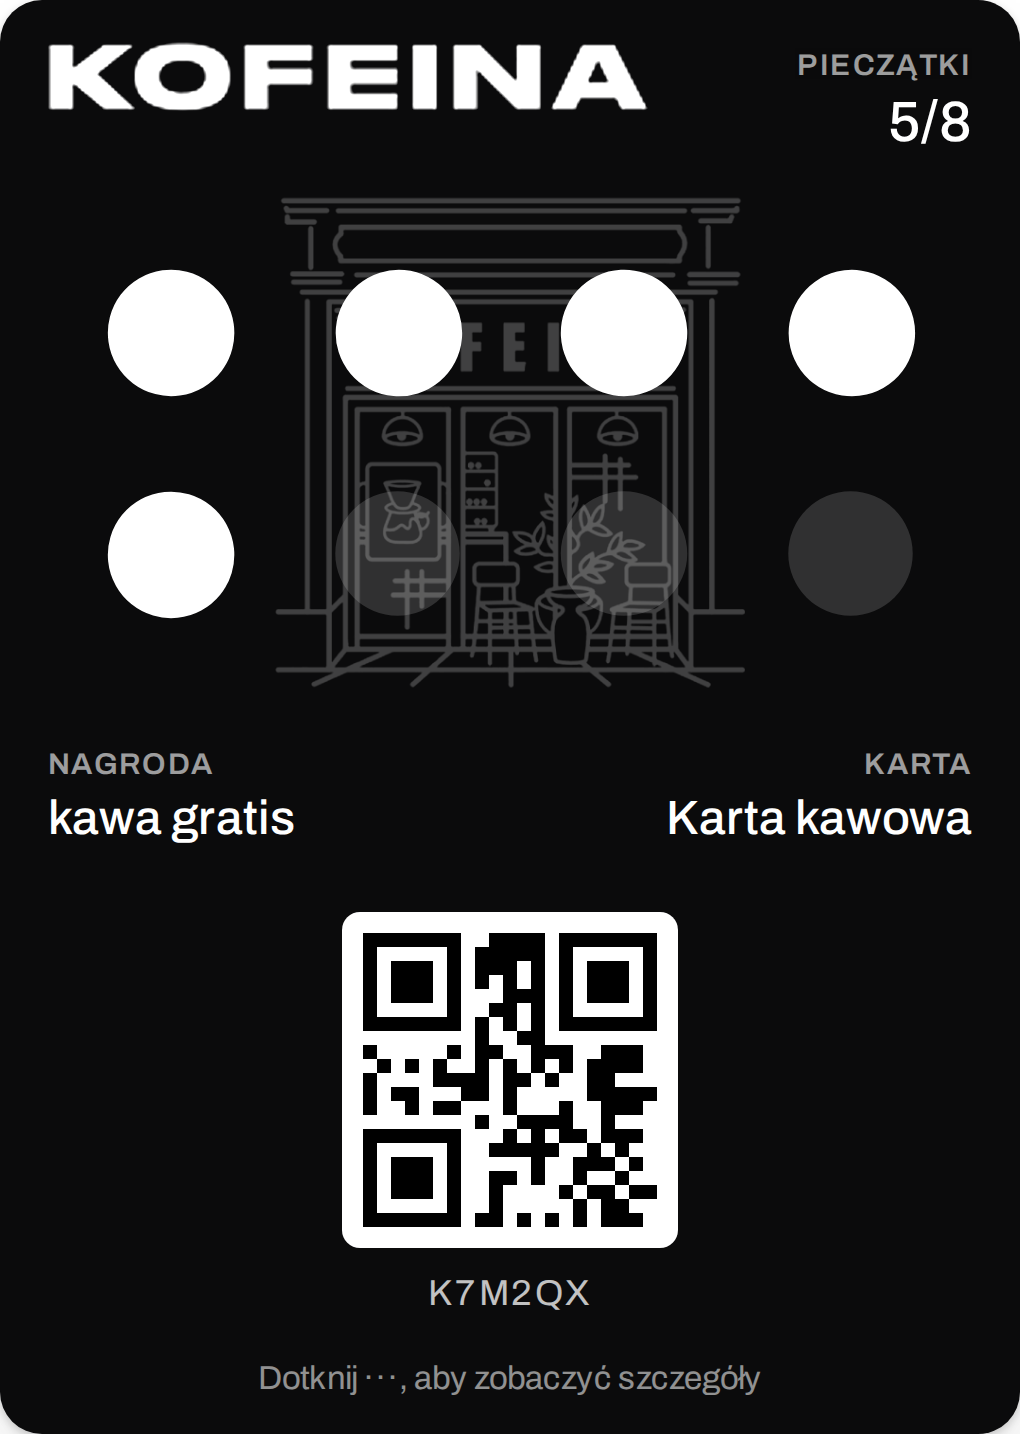
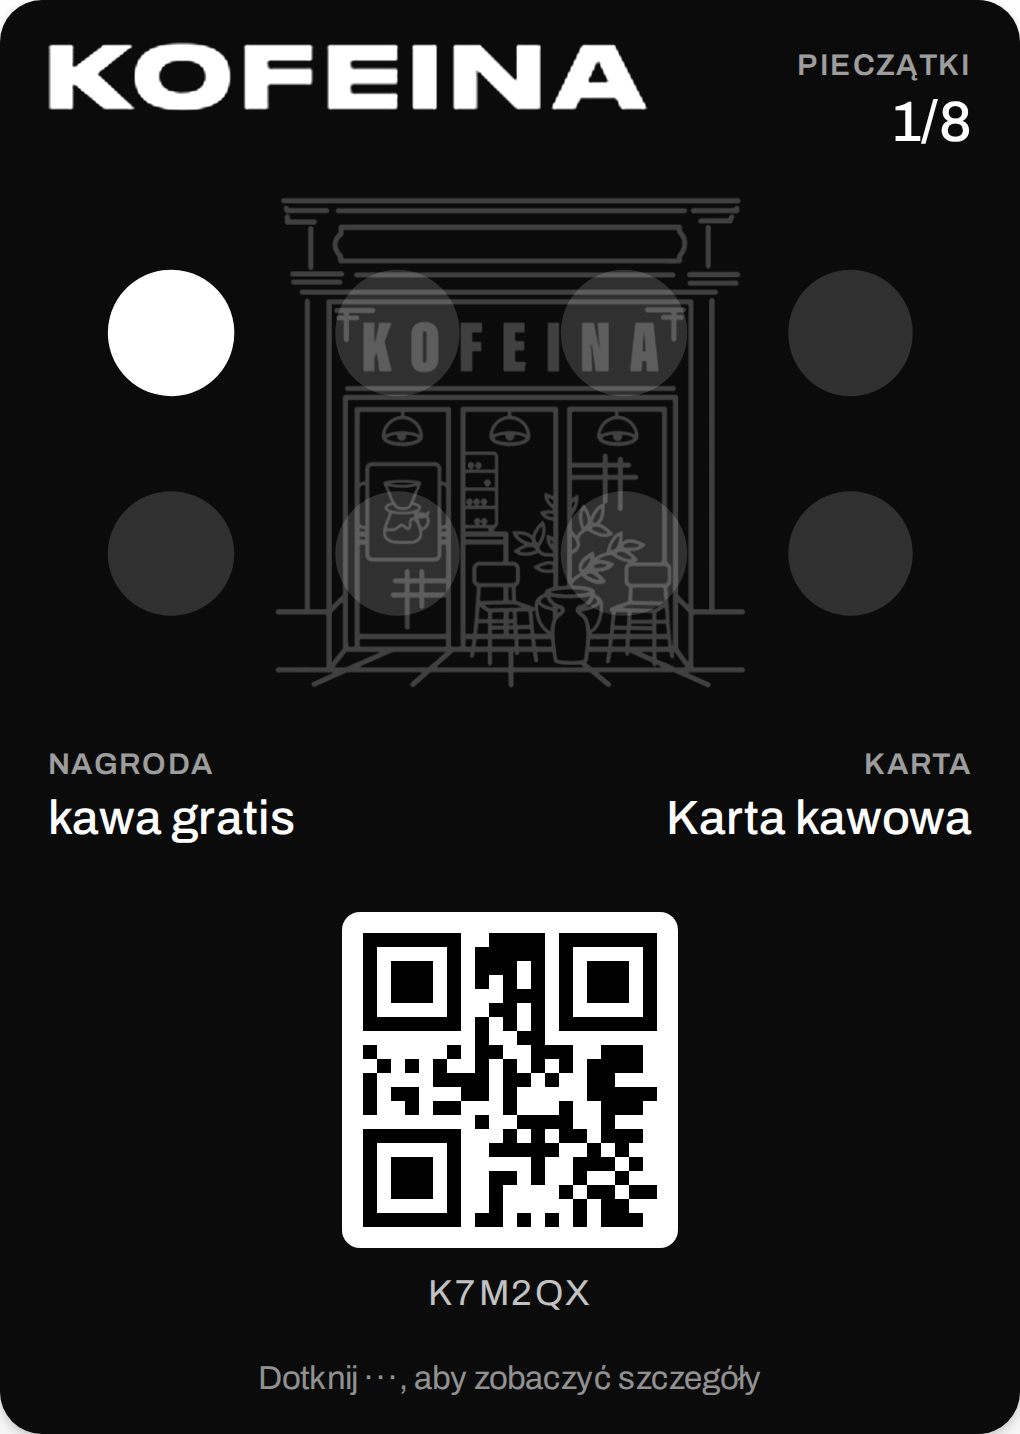
Kofeina dark card example: one stamp, so the storefront sign reads
Claude-Session: https://claude.ai/code/session_015Jxz3uYVBeA1BfejC8Sdvv

diff --git a/print/example-cards.html b/print/example-cards.html
@@ -66,7 +66,7 @@ h1{font-size:28px;margin:0 0 6px}
     { id: 'kofeina', lang: 'pl', title: 'Kofeina, Bydgoszcz', note: 'Czarno-białe jak ich logo: płaskie czarne kropki.', cards: [
       { name: 'kofeina-simple', label: 'Prosta: logo, czarne kropki', stamps: 6,
         card: { ...KOF, stampsNeeded: 10, color: '#FFFFFF', ink: '#0B0B0C', strip: '#FFFFFF', logo: 'kit-kofeina/art/kofeina-logo-black.png', stampImage: dot('#0B0B0C') } },
-      { name: 'kofeina-dark', label: 'Czarna: ich kawiarnia w tle, białe kropki', stamps: 5,
+      { name: 'kofeina-dark', label: 'Czarna: ich kawiarnia w tle, białe kropki', stamps: 1,
         card: { ...KOF, stampsNeeded: 8, color: '#0B0B0C', ink: '#FFFFFF', strip: '#0B0B0C', logo: 'kit-kofeina/art/kofeina-logo-white.png', stripImage: watermark(STORE_W, '#0B0B0C', .22, 1020, 450, 430), stampImage: dot('#FFFFFF') } }
     ] },
     { id: 'orsonero', lang: 'en', title: 'Orsonero Coffee', note: 'Their logo at the top left, the grey and white awning behind the stamps; every stamp is the bear in a circle.', cards: [
